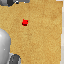
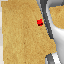
figures and info added to depth and policeis

diff --git a/project/cam-comb/depth.tex b/project/cam-comb/depth.tex
@@ -9,53 +9,111 @@ The few ways to achieve this in robotics and RLBench specifically is either to u
 
 This is because, as I hinted earlier in the background section, the main idea of active vision is to be able to use minimal amounts of viewpoints and make the most out of these. In this scenario, I want to see if it can be justified to use the wrist camera accompanied by the wrist depth sensor to replace any other cameras we might have around the workspace. Paving the way to the next section in proposing active vision policies that act solely on information from a repositionable sensor (be that rgb, depth or any other).
 
-So, I want to see whether depth data adds meaningful information that we can justify not using external scene cameras in favour of a wrist camera and a wrist depth sensor.
+Therefore, I want to investigate whether depth data immediately adds meaningful information and if not; what is the best way to extract information from it so that it -combined with the normal rgb view- can be utilised to pave the way for active policies.
 
 \section{Grasping with Varying Depths}
-I want to investigate how the an agent might react to different sized targets that might be placed at different distances from the gripper.
+To start investigating, I devised the following test task to see how the agent reacts to differently sized targets that might be placed at varying distances from the gripper within the scene
 
 \subsection{Task Design}
-The experiment that makes sense in this case is a grasping task. Because unlike the reaching tasks from earlier, the robot will need slightly more precision in executing its grasp and actually grabbing the target.
-
-As the task performer needs to figure out where an object is before attempting to grab it. So, I created a modified version of the simple grasping task where the target object's distance and scale can be externally varied to observe the behaviours of agents in a controlled manner.\todo[color=green]{talk about delegating the task creating and param passing as wellas the tasks in appendix and link here}
+The experiment that makes sense in this case is a grasping task. Because unlike the reaching tasks from earlier, the robot will need slightly more precision in executing its grasp and actually grabbing the target. The task performer needs to figure out where an object is before attempting to grab it. So, I created a modified version of the simple grasping task where the target object's distance and scale can be externally varied to observe the behaviours of agents in a controlled manner.\todo[color=green]{talk about delegating the task creating and param passing as well as the tasks in appendix and link here}
 
 \begin{figure}[htpb] % htpb allows all placement
+  \centering
   \begin{subfigure}{0.4\linewidth}
     \centering
     \includegraphics[width=0.7\linewidth]{assets/depth-interfacing/normal-size-grasp.png}
-    \caption{Normal Sized Cube}\label{subfig:normal-grasp}
+    \caption{Normal Target Size}\label{subfig:normal-grasp}
   \end{subfigure}
-  \hfill
   \begin{subfigure}{0.4\linewidth}
     \centering
     \includegraphics[width=0.7\linewidth]{assets/depth-interfacing/smaller-grasp.png}
-    \caption{Small Sized Cube}\label{subfig:small-grasp}
-  \end{subfigure}
-  \begin{subfigure}{0.4\linewidth}
-    \centering
-    \includegraphics[width=0.7\linewidth]{assets/depth-interfacing/normal-size-wrist.png}
-    \caption{Wrist RGB from Normal Sized Task}\label{subfig:normal-rgb}
-  \end{subfigure}
-  \hfill
-  \begin{subfigure}{0.4\linewidth}
-    \centering
-    \includegraphics[width=0.7\linewidth]{assets/depth-interfacing/smaller-wrist.png}
-    \caption{Wrist RGB from Smaller Sized Task}\label{subfig:small-rgb}
+    \caption{Smaller Target Size}\label{subfig:small-grasp}
   \end{subfigure}
   \caption{Visualisation of the Depth Interfacing experiment task}\label{fig:di-task}
 \end{figure}
 
-This is the general setup I am planning on using to evaluate the depth sensor versus a stereo or any multi-view setup. 
-\todo{put the other graphics already in the thing}
+These, Figure \ref{fig:di-task}, is the general setup I am planning on using to evaluate the depth sensor versus a multi-view setup. 
 
-As we can see here, in these very different reaching scenarios \todo{ref the figure} the wrist inputs are the same, or very similar, due to the different placements of the targets. However, if we look at the stereo setup, for example \todo{ref the l and r cams}, the objects can be distinguished. Or if we were to have a stereo wrist RGB setup \todo[color=red]{not sure if this is possible I hate changing anything in RLBench, maybe mention trying if i have the time to} or \todo{link other figure} the depth features might be able to help distinguish these 2 views.
-\missingfigure{add the left and right shoulder cams here 2 by 1 figure, of the above task}
-\missingfigure{add differnt depth outputs from the above task, 2 by 1 figure}
+\begin{figure}[htpb] % htpb allows all placement
+  \centering
+  \begin{subfigure}{0.4\linewidth}
+    \centering
+    \includegraphics[width=0.7\linewidth]{assets/depth-interfacing/normal-size-wrist.png}
+    \caption{Smaller - Wrist RGB}\label{subfig:normal-rgb}
+  \end{subfigure}
+  \begin{subfigure}{0.4\linewidth}
+    \centering
+    \includegraphics[width=0.7\linewidth]{assets/depth-interfacing/smaller-wrist.png}
+    \caption{Smaller - Wrist RGB}\label{subfig:small-rgb}
+  \end{subfigure}
+  \begin{subfigure}{0.40\linewidth}
+    \centering
+    \includegraphics[width=0.7\linewidth]{assets/depth-interfacing/normal-depth.png}
+    \caption{Wrist Depth Mask - Normal}\label{subfig:normal-depth}
+  \end{subfigure}
+  \begin{subfigure}{0.40\linewidth}
+    \centering
+    \includegraphics[width=0.7\linewidth]{assets/depth-interfacing/smaller-depth.png}
+    \caption{Wrist Depth Mask - Smaller}\label{subfig:small-depth}
+  \end{subfigure}
+  \caption{Wrist RGB and Depth Masks for the tasks}\label{fig:di-rgb-vs-depth}
+\end{figure}
+
+Initial observations from the side clearly indicate that these are two different targets and will require different reach lengths before the agent can attempt to grab them. However, as seen in the comparison in \ref{subfig:normal-rgb} and \ref{subfig:small-rgb}, the RGB outputs look practically the same, and will very likely produce extremely similar features after extraction. A way to differentiate them would be to utilise the wrist depth mask in this encoding. As shown in \ref{subfig:normal-depth} and \ref{subfig:small-depth}, they now carry different features in those areas. In the depth mask the darker colours indicate closer objects, and the information is encoded as floats. 
+
+\begin{figure}[htpb] % htpb allows all placement
+  \centering
+  \begin{subfigure}{0.40\linewidth}
+    \centering
+    \includegraphics[width=0.7\linewidth]{assets/depth-interfacing/normal-l_rgb.png}
+    \caption{Normal - Left Shoulder RGB}\label{subfig:normal-l-shoulder}
+  \end{subfigure}
+  \begin{subfigure}{0.40\linewidth}
+    \centering
+    \includegraphics[width=0.7\linewidth]{assets/depth-interfacing/normal-r_rgb.png}
+    \caption{Normal - Right Shoulder RGB}\label{subfig:normal-r-shoulder}
+  \end{subfigure}
+  \begin{subfigure}{0.40\linewidth}
+    \centering
+    \includegraphics[width=0.7\linewidth]{assets/depth-interfacing/smaller-l_rgb.png}
+    \caption{Smaller - Left Shoulder RGB}\label{subfig:smaller-l-shoulder}
+  \end{subfigure}
+  \begin{subfigure}{0.40\linewidth}
+    \centering
+    \includegraphics[width=0.7\linewidth]{assets/depth-interfacing/smaller-r_rgb.png}
+    \caption{Smaller - Right Shoulder RGB}\label{subfig:smaller-r-shoulder}
+  \end{subfigure}
+  \caption{Left and Right Shoulder RGB Cameras}\label{fig:di-lr-shoulder}
+\end{figure}
+
+
+Another possible differentiating factor, and likely earlier tasks were performing well, is due to the shoulder cameras. These also provide extra information about the scene the agent can use to understand its 3D geometry, even if it isn't explicitly taught it. Although these are also not perfect, as seen in \ref{subfig:smaller-l-shoulder}, this camera is completely obstructed by the robot and is not seeing the target. This is not immediately problematic, because a smart enough system might be able to reason that the target is visible on the right and not on the left, leading to devising the correct depth for it. However, I have not intentionally encoded that information and doubt my network will be able to produce correct results with these observations.
+
+\subsubsection{Adding Stereo Wrist Vision}\todo[color=red]{add wrist L and wrist R cameras, remove otherwise after a short mention}
+A possibility to overcome this self-occlusion is to introduce stereo vision at the wrist level. Adding 2 off-centre cameras to the gripper, likely to the left and right of the existing wrist camera, will fix the self-occlusion, and possibly create a better comparison to the \emph{Wrist RGB} and \emph{Wrist Depth} combination. However, this comes with a lot of rewiring of RLBench and with its likely hidden issues that will pop up later. Will consider this further down the line, if there is evidence policies that will be proposed later can benefit form such a camera setup.
+
+
+
 
 \section{Creating an Appropriate Policy}
-The policy for grasping needed slight modifications compared to the simpler reaching task. Along with understanding what is being seen for movement of the joints, we also needed a mechanism for sending a grasping signal for the robot. The previous policy would regress the entire 6DoF along with the final \emph{float} that controls the gripper. This was not sufficient for this task. Firstly, there weren't many frames the gripper is signaled to be closed, as the gripping happens at the end of the task, comparatively less observations where the gripper is closed; means that there is an inherent imbalance in our dataset. If we were to treat \textbf{CLOSED} and \textbf{OPEN} as binary labels; which they are as RLBench takes a \emph{float} $\in \left[0, 1\right]$ and thresholds at $ > 0.9$ to check if it should be open. Therefore, regressing the entire action with the gripper bit makes it extremely uncertain and mostly skew towards staying open. 
+The policy for grasping needed slight modifications compared to the simpler reaching task. Along with understanding what is being seen for movement of the joints, we also needed a mechanism for sending a grasping signal for the robot. The previous policy would regress the entire 6DoF along with the final \emph{float} that controls the gripper. This was evident earlier when observing the reaching task I realised the gripper would sometimes `clap', meaning it would open and close quickly for every other action, which is odd, but was not a deal breaker before.
 
-To adjust for this I first tried to do binary classification with weighting the samples to counteract this, which was not fruitful just due to the overall dataset size being small as well. So, going back to regression, I decided to add Cross Entropy Loss and with a gripper prediction head just predict the gripper action from the extracted camera features, then add this as a part of the overall loss with a weighting \todo{add loss in math notation with lambda gripper}. This meant that the gripper action is separately tunable to the movement action. This makes inherent sense as the movement decisions should never affect the gripper. The information flow is camera to movement and gripper action separately \todo{small flowchart to show cam  move, cam gripper action} 
+However, now this would not be sufficient. Firstly, there weren't many frames the gripper is signaled to be closed, as the gripping happens at the end of the task, comparatively less observations where the gripper is closed; means that there is an inherent imbalance in our dataset. If we were to treat \textbf{CLOSED} and \textbf{OPEN} as binary labels; which they are as RLBench takes a \emph{float} $\in \left[0, 1\right]$ and thresholds at $ > 0.9$ to check if it should be open. Therefore, regressing the entire action with the gripper bit makes it extremely uncertain and mostly skew towards staying open. With quick fluctuations, due to uncertainty.
+
+To adjust for this I first tried to do binary classification with weighting the samples to counteract this, which was not fruitful just due to the overall dataset size being small as well. There are as much data as there is episodes in a demo, which is usually not much more than $50$. So, going back to regression, I decided to add Binary Cross Entropy (BCE) Loss; using \verb|BCEWithLogitsLoss| from Pytorch \todo[color=green]{ref this?}. Along with a gripper prediction head just to predict the gripper action from the extracted camera features, then add this as a part of the overall loss with a weighting, giving us:
+
+\[
+  loss = mse\_loss \left(action_{v}, ~\hat{action_v}\right) 
+  + 
+  \lambda_{gripper} bce\_loss\left( action_{g}, ~\hat{action_g}\right)
+\]
+
+where $v$ and $g$ means respectively the $7$-dim joint velocity vector and the $1$-dim float vector which is \( \in \{ 0.0, 1.0 \}\)
+
+This meant that the gripper action is separately tunable to the movement action. This makes inherent sense as the movement decisions should never affect the gripper. The information flow is camera to movement and gripper action separately \todo{small flowchart to show cam  move, cam gripper action} 
+
+
+\todo[color=pink]{run some, simple grasp policy static tests here with l and r vs wrist and depth}
 
 
 \subsubsection{Incorporating the Depth Camera}

diff --git a/project/cam-comb/policies.tex b/project/cam-comb/policies.tex
@@ -1,16 +1,27 @@
 \section{Proposing Policies}
 
 \subsection{Feature Extraction and Fusion}
-Following the experimental setup I also wanted to see what is the most viable way to fuse information about the depth cameras and the RGB cameras to enable the best way of learning for my policies. This is inherently a difficult problem as there is no one way to do this, and multiple ways may interact differently with different setups
+Following the experimental setup I also wanted to see what is the most viable way to fuse information about the depth cameras and the RGB cameras to enable the best way of learning for my policies. This is inherently a difficult problem as there is no one way to do this, and multiple ways may interact differently with varying task setups.
 
 \subsection{Simple Fusion Methods}
+This is what I used for the initial tests I concluded above in depth interfacing\todo{link or ref figures}
 This adds onto before, gated attention and rgb attending to depth etc, explain some approaches
 
-\subsection{Deeper/Better Features Understanding - RCN}
-This was not useful, mainly because what I have constrained myself into with the smaller image sizes, and these larger image segmenting networks are better with more information as they aggressively pool especially -the larger models. \todo{not sure say some other bs here}
+\subsection{Deeper/Better Feature Understanding - RCNN}
+Another thing I wanted to try was to include off-the-shelf models to help extract features and information from my views. As one of the problems I described faced earlier was from the agent not remembering the earlier information that it has seen, I believed an important part of increasing the workspace understanding would be to incorporate residual connections.
+
+I experimented with various sizes of ResNet networks \todo[color=green]{reference}. I essentially replaced my own \verb|CNNEncoder| block with modified versions of \emph{resnet18, resnet34, and resnet50} \todo[color=green]{maybe not mention all, afterall the large ones will be ass when the image is so small}. I had to modify these, because the unmodified version using a main CNN of kernel size $7$ was too large and appropriate features were not being extracted from the views I was feeding. This was evident from observing the agent act in a test scenario where the arm would do nothing remotely similar to what the demo did, or even what the task is about.\todo{maybe a picture of the arm doing some bs here}. \todo[color=pink]{run the original confirm it does not work, if not get a diagram of kernel sizes 7 and 3 and an explanation why this might be the case.}
+
+The modified versions, with a smaller kernel, feeding into the later layers and then getting the residual connection didn't seem to work any better either \todo[color=pink]{test on comparing my one with a resnet graph on a toy grasping task, maybe grasp then move?}
+
+A reason these might not have worked well is because of one of my earlier constraints. The image sizes being \(64 \times 64\) pixels, might not be enough to extract meaningful information with a ResNet. This is likely due to its aggressive pooling between the layers and especially during the residual connection and the aggressiveness only increases in larger models. \todo[color=red]{not actually sure if this is right, fact check, wrote this some time ago} 
+
+\subsubsection{increasing the camera view for experimentation}\todo[color=red]{larger image trials? expand the task to be lager 128 or even 224 seems common with resnet}
 
 \subsection{Temporal Understanding of Demonstrations}
-Even though the agent is not half bad at trying to reach the target in the above configurations, it is not necessarily better at succeeding at grasping, and the movements seem janky compared to precise demonstrations, and the robot doesn't necessarily understand where in the movement it is, because the first half of the episode is very repetitive and the inputs are eerily similar. This meant that an important part of the system was for my agent to understand where it was as well as when it was.
+Even though the agent is not half bad at trying to reach the target in the above configurations, it is not necessarily better at succeeding at grasping, and the movements seem janky compared to the  precise demonstrations given. I believe this is because the robot is only given its current view and does not understand where it might be during the epsiode \todo{this is the issue I faced}
+
+and the robot doesn't necessarily understand where in the movement it is, because the first half of the episode is very repetitive and the inputs are eerily similar. This meant that an important part of the system was for my agent to understand where it was as well as when it was.
 
 \subsubsection{Latent RNN Encodings of Movement Steps}
 I wanted to encode the timestep information into some sort of feature representation which would use the previous states to encode the data. This simple idea was to introduce temporal noise into the decision process. Then act on the final encoding
